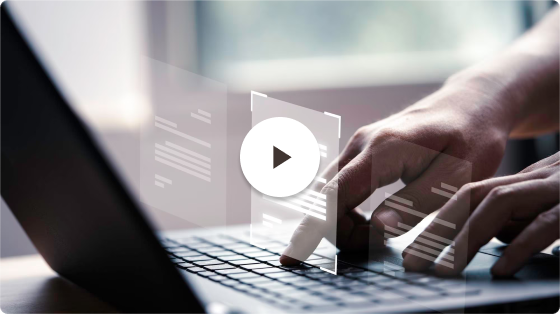
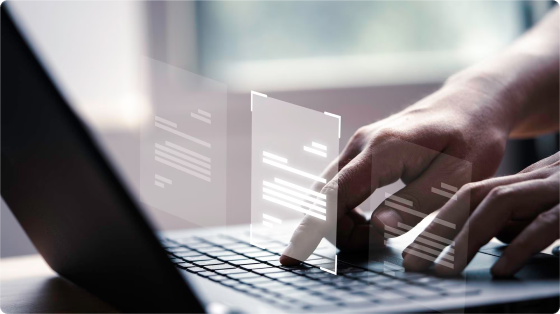
feat: add final changes

Changed region(s): [[0.425, 0.3726, 0.5768, 0.6592]]

diff --git a/detective/src/pages/GeoLocationPage/GeoLocationPage.jsx b/detective/src/pages/GeoLocationPage/GeoLocationPage.jsx
@@ -6,6 +6,7 @@ import GeoLocationImg from "../../assets/images/geolocation-photo.png";
 import Star from "../../assets/images/icon_star.svg";
 import { ReactComponent as VectorRight } from "../../assets/images/vectorright.svg";
 import { ReactComponent as Binoculars } from "../../assets/images/services-binoculars.svg";
+import { ReactComponent as Play } from "../../assets/images/play.svg";
 import FAQ from "../../components/FAQ/FAQ";
 import Blog from "../../components/Blog/Blog";
 import Popup from "../../components/Popup/Popup";
@@ -24,17 +25,23 @@ export default function GeoLocationPage() {
           <Breadcrumbs />
           <h1 className={style.h1}>Пробить геолокацию по номеру телефона</h1>
           <div className={style.blok_header}>
-            <a
-              href="https://www.youtube.com/watch?v=kjUEZeDWfHQ"
-              target="_blank"
-              rel="noreferrer"
-            >
+            <div className={style.blok_img}>
               <img
                 src={GeoLocationImg}
                 alt="geolocation"
                 className={style.img}
               />
-            </a>
+              <button className={style.play}>
+                <a
+                  href="https://www.youtube.com/watch?v=kjUEZeDWfHQ"
+                  target="_blank"
+                  rel="noreferrer"
+                >
+                  <Play alt="play" />
+                </a>
+              </button>
+            </div>
+
             <div className={style.blok_header_text}>
               <p className={style.text_header}>
                 Досье на человека — полная информация о конкретной личности,

diff --git a/detective/src/components/MainBG/MainBG.jsx b/detective/src/components/MainBG/MainBG.jsx
@@ -17,24 +17,24 @@ function MainBG() {
 
           <SecondModal isOnMain={true}></SecondModal>
 
-          <div className={style.button_mobile}>
-            <button
-              type="submit"
-              className={style.button}
-              onClick={() => setButtonPopup(true)}
-            >
-              Оставить заявку
-              <div className={style.vector}>
-                <Vectorright />
-              </div>
-            </button>
-            <Popup trigger={buttonPopup} setTrigger={setButtonPopup}>
-              <SecondModal isMainMobile={true} />
-            </Popup>
-          </div>
           <SocialMediaButtons />
         </div>
       </section>
+      <div className={style.button_mobile}>
+        <button
+          type="submit"
+          className={style.button}
+          onClick={() => setButtonPopup(true)}
+        >
+          Оставить заявку
+          <div className={style.vector}>
+            <Vectorright />
+          </div>
+        </button>
+        <Popup trigger={buttonPopup} setTrigger={setButtonPopup}>
+          <SecondModal isMainMobile={true} />
+        </Popup>
+      </div>
     </>
   );
 }

diff --git a/detective/src/pages/GeoLocationPage/geolocationpage.module.scss b/detective/src/pages/GeoLocationPage/geolocationpage.module.scss
@@ -53,6 +53,23 @@
     align-items: center;
     gap: 24px;
   }
+
+  .blok_img {
+    position: relative;
+    width: 560px;
+    height: 314px;
+
+    .play {
+      position: absolute;
+      top: 50%;
+      left: 50%;
+      transform: translate(-50%, -50%);
+      -ms-transform: translate(-50%, -50%);
+      background: transparent;
+      border: 0;
+      cursor: pointer;
+    }
+  }
 }
 
 @media screen and (max-width: 1195px) {
@@ -110,12 +127,37 @@
     align-items: center;
     gap: 24px;
   }
+
+  .blok_img {
+    position: relative;
+    width: 100%;
+
+    .img {
+      width: 100%;
+      height: auto;
+    }
+
+    .play {
+      position: absolute;
+      top: 50%;
+      left: 50%;
+      transform: translate(-50%, -50%);
+      -ms-transform: translate(-50%, -50%);
+      background: transparent;
+      border: 0;
+      cursor: pointer;
+    }
+  }
 }
 
 @media screen and (max-width: 637px) {
   .section_header {
     background: #110f0f;
     padding: 8px 16px 40px 16px;
+  }
+
+  .blok_header {
+    gap: 24px;
   }
 
   .blok_price {
@@ -218,7 +260,6 @@
 
 .blok_price {
   display: flex;
-  gap: 40px;
   color: #fff;
 }
 

diff --git a/detective/src/components/Nav/Burger.jsx b/detective/src/components/Nav/Burger.jsx
@@ -4,8 +4,8 @@ import style from "./nav.module.scss";
 import Nav from "./Nav";
 
 const StyledBurger = styled.div`
-  height: 48px;
-  padding: 4px 20px;
+  height: 30px;
+  padding: 4px 15px;
   align-items: center;
   gap: 8px;
   position: fixed;
@@ -31,7 +31,7 @@ const StyledBurger = styled.div`
     display: flex;
     justify-content: space-around;
     flex-flow: row nowrap;
-    right: 15%;
+    right: 7%;
   }
 
   @media (max-width: 1230px) {
@@ -55,7 +55,7 @@ const StyledBurger = styled.div`
 
   div {
     &:nth-child(1) {
-      transform: ${({ open }) => (open ? "rotate(38deg)" : "rotate(0)")};
+      transform: ${({ open }) => (open ? "rotate(45deg)" : "rotate(0)")};
     }
 
     &:nth-child(2) {
@@ -65,7 +65,7 @@ const StyledBurger = styled.div`
 
     &:nth-child(3) {
       transform: ${({ open }) =>
-        open ? "rotate(-38deg) scaleX(2)" : "rotate(0) scaleX(1)"};
+        open ? "rotate(-45deg) scaleX(2)" : "rotate(0) scaleX(1)"};
     }
   }
 `;

diff --git a/detective/src/components/Popup/popup.module.scss b/detective/src/components/Popup/popup.module.scss
@@ -10,7 +10,6 @@
   align-items: center;
   z-index: 35;
 
-
   .popup_inner {
     z-index: 40;
     position: relative;
@@ -23,7 +22,7 @@
     font-family: Geologica;
     position: absolute;
     top: 16px;
-    right: 16px;
+    right: 26px;
     background-color: transparent;
     border: none;
     cursor: pointer;
@@ -38,19 +37,19 @@
 @media screen and (max-width: 450px) {
   .popup_header {
     padding: 12px 24px;
-    background-color: #110F0F;
+    background-color: #110f0f;
 
-    // svg {
-    //   display: none;
-    // }
+    .popup_img {
+      max-height: 39px;
+    }
 
     .close_btn {
       font-size: 16px;
       display: flex;
       justify-content: space-around;
       flex-flow: row nowrap;
-      height: 48px;
-      padding: 16px;
+      height: 42px;
+      padding: 16px 16px;
       align-items: center;
       gap: 8px;
       position: fixed;

diff --git a/detective/src/components/MainBG/mainbg.module.scss b/detective/src/components/MainBG/mainbg.module.scss
@@ -155,7 +155,7 @@
     background-image: url("../../assets/images/main-bg-375.png");
     background-color: #110f0f;
     max-width: 100%;
-    height: 513px;
+    height: 483px;
     background-repeat: no-repeat;
     background-position: top center;
     overflow: hidden;
@@ -169,7 +169,7 @@
     flex-direction: column;
     justify-content: flex-end;
     align-items: center;
-    margin-top: 310px;
+    margin-top: 250px;
     margin-left: 0px;
   }
 
@@ -189,14 +189,13 @@
 
   .button_mobile {
     display: flex;
-    width: 94%;
+    // width: 94%;
     background: #110f0f;
     padding: 24px 16px;
-    margin-top: 20px;
+    // margin-top: 20px;
     flex-direction: column;
     align-items: flex-start;
     gap: 48px;
-    // align-self: stretch;
   }
 
   .button {

diff --git a/detective/src/components/Header/header.module.scss b/detective/src/components/Header/header.module.scss
@@ -1,3 +1,15 @@
+@media screen and (min-width: 675px) {
+  .logo {
+    padding: 15px 0;
+    max-width: 55px;
+    max-height: 60px;
+  }
+
+  .header {
+    height: 64px;
+  }
+}
+
 @media screen and (max-width: 675px) {
   .container {
     display: none;
@@ -7,22 +19,24 @@
   .whatsapp {
     display: none;
   }
+
+  .logo {
+    max-height: 39px;
+    padding: 5px 0;
+  }
+
+  .header {
+    height: 43px;
+  }
 }
 
 .header {
-  height: 64px;
   background-color: #110f0f;
   border-color: #110f0f;
   padding: 12px 24px;
   display: flex;
   justify-content: space-between;
   align-items: center;
-}
-
-.logo {
-  padding: 15px 0;
-  max-width: 55px;
-  min-height: 64px;
 }
 
 .number {

diff --git a/detective/src/components/Nav/nav.module.scss b/detective/src/components/Nav/nav.module.scss
@@ -245,24 +245,24 @@
 }
 
 .div1 {
-  width: 24px;
-  height: 0.2rem;
+  width: 16px;
+  height: 0.1rem;
   background-color: #fff;
   transform-origin: 1px;
   transition: all 0.3s linear;
 }
 
 .div2 {
-  width: 18px;
-  height: 0.2rem;
+  width: 12px;
+  height: 0.1rem;
   background-color: #fff;
   transform-origin: 1px;
   transition: all 0.3s linear;
 }
 
 .div3 {
-  width: 12px;
-  height: 0.2rem;
+  width: 8px;
+  height: 0.1rem;
   background-color: #fff;
   transform-origin: 1px;
   transition: all 0.3s linear;

diff --git a/detective/src/components/Popup/Popup.jsx b/detective/src/components/Popup/Popup.jsx
@@ -17,7 +17,7 @@ export default function Popup(props) {
           <div className={style.popup_header} >
             <button className={style.close_btn} onClick={() => props.setTrigger(false)}><Cross />Закрыть</button>
             <Link to="/" className={style.popup_logo}>
-              <img src={Logo} alt="logo" />
+              <img src={Logo} alt="logo" className={style.popup_img}/>
             </Link>
           </div>
           {props.children}

diff --git a/detective/src/components/Nav/Nav.jsx b/detective/src/components/Nav/Nav.jsx
@@ -40,12 +40,13 @@ const Ul = styled.ul`
     position: fixed;
     z-index: 30;
     transform: ${({ open }) => (open ? "translateX(0)" : "translateX(100%)")};
-    top: 88px;
+    top: 65px;
     left: 0;
     right: 0;
     padding: 24px 16px;
     height: 812px;
     transition: transform 0.3s ease-in-out;
+    margin: 0;
   }
 `;
 
